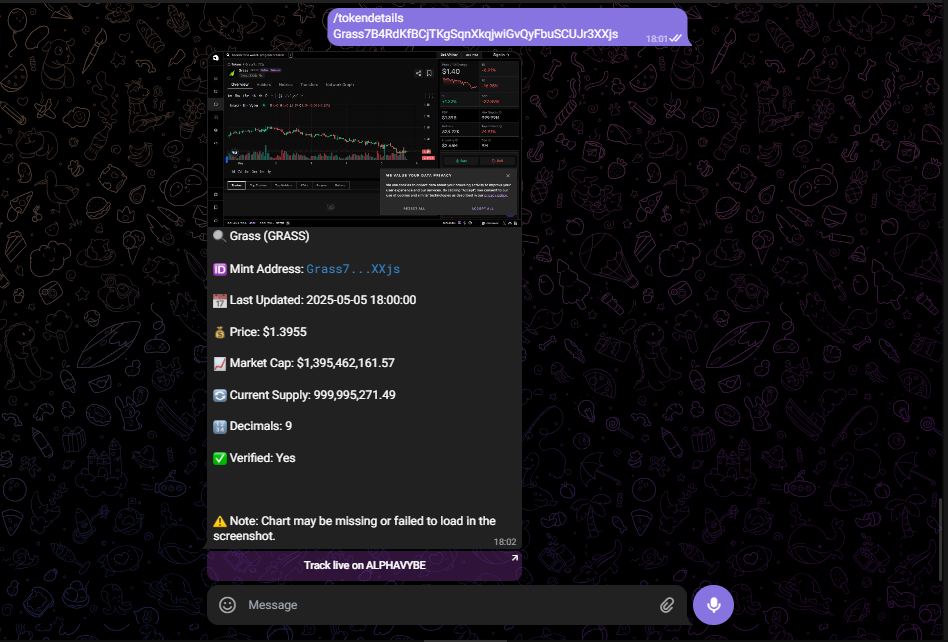
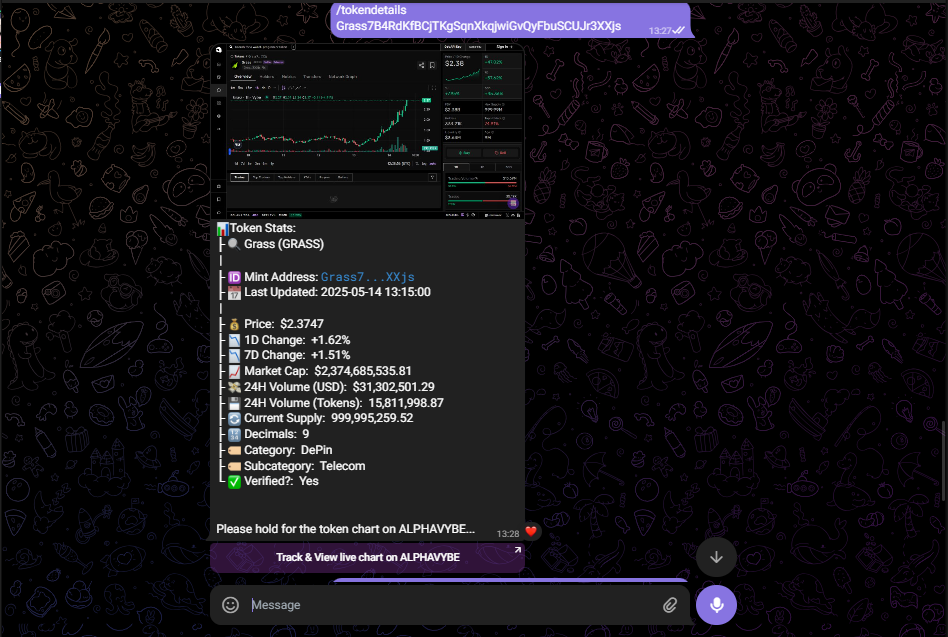
fixed chart image generation, and readme

Changed region(s): [[0.0, 0.0, 1.0, 1.0], [0.8565, 0.5965, 0.9177, 0.686], [0.9789, 0.0, 1.0, 0.0298]]

diff --git a/slashcommands/slashmain.py b/slashcommands/slashmain.py
@@ -264,34 +264,62 @@ COOKIE_SELECTORS = [
     'button[title="ACCEPT ALL"]',
     'button:has-text("Accept All")',
     'button:has-text("Accept Cookies")',
-    'text="Accept"'
+    'text="Accept"',
+    'button#accept-cookies',  # Additional common selectors
+    'button.cookie-accept'
 ]
 
 async def _dismiss_cookies(page):
-    await page.wait_for_timeout(1500)
+    await page.wait_for_timeout(3000)  # Increased initial wait
+    found = False
     for sel in COOKIE_SELECTORS:
         try:
             btn = page.locator(sel)
-            if await btn.is_visible(timeout=3000):
+            if await btn.is_visible(timeout=5000):  # Longer timeout per selector
                 await btn.click()
-                await page.wait_for_timeout(700)
-                return True
-        except PlaywrightTimeoutError:
+                await page.wait_for_timeout(2000)  # Wait for pop-up to close
+                found = True
+                break
+        except Exception as e:  # Broad exception to catch any errors
+            print(f"Cookie dismissal attempt failed for {sel}: {e}")
             continue
-    return False
+    # If not found, try to remove common cookie containers via JS
+    if not found:
+        await page.evaluate('''() => {
+            const selectors = [
+                '.cookie-banner', '#cookie-consent', '.cookieconsent',
+                '.cookies-modal', '#cookieModal', '.cc-banner'
+            ];
+            selectors.forEach(selector => {
+                document.querySelectorAll(selector).forEach(el => el.remove());
+            });
+        }''')
+        await page.wait_for_timeout(1000)  # Allow time for DOM update
+    return found
 
 async def _take_screenshot(page, path):
-    await page.wait_for_selector('div.chart-gui-wrapper', timeout=20000)
-    await page.wait_for_selector('div.chart-gui-wrapper canvas', state="visible", timeout=20000)
-    await page.evaluate("document.querySelector('div.chart-gui-wrapper canvas').scrollIntoView()")
     try:
+        # Attempt to wait for chart elements but proceed if they timeout
+        await page.wait_for_selector('div.chart-gui-wrapper', timeout=20000)
+        await page.wait_for_selector('div.chart-gui-wrapper canvas', state="visible", timeout=20000)
+        # Scroll into view if possible
+        await page.evaluate('''() => {
+            const canvas = document.querySelector('div.chart-gui-wrapper canvas');
+            if (canvas) canvas.scrollIntoView({ behavior: 'instant', block: 'center' });
+        }''')
+    except Exception as e:
+        print(f"Error waiting for chart elements: {e}")
+    try:
+        # Wait for loading spinner to disappear
         await page.wait_for_selector('div.chart-gui-wrapper .loading-spinner', state="detached", timeout=15000)
-    except PlaywrightTimeoutError:
-        pass
+    except Exception as e:
+        print(f"Loading spinner still present: {e}")
+    # Final wait and screenshot
     await page.wait_for_timeout(3000)
     await page.screenshot(path=path, full_page=True)
 
 async def token_details(update: Update, context: ContextTypes.DEFAULT_TYPE):
+    loader_msg = await update.message.reply_text("⏳ Incoming 'token deets'...")
     if not context.args:
         await update.message.reply_text(
             "⚠ Please provide a token mint address\n"
@@ -306,17 +334,17 @@ async def token_details(update: Update, context: ContextTypes.DEFAULT_TYPE):
     # Send token info
     token_info = await slashutils.get_token_details(token_mint)
     info_text = (
-        f"📊Token Stats:\n{token_info}\n\n"
-        "Please hold for the token chart on ALPHAVYBE..."
+        f"📊Token Stats:\n{token_info}"
     )
     info_keyboard = InlineKeyboardMarkup(
         [[InlineKeyboardButton("Track live on ALPHAVYBE", url=url)]]
     )
-    await update.message.reply_text(
+    token_deets = await update.message.reply_text(
         info_text,
         reply_markup=info_keyboard,
         parse_mode="Markdown"
     )
+    await loader_msg.delete()
 
     loading_msg = await update.message.reply_text("⏳ Loading chart image...")
 
@@ -326,31 +354,37 @@ async def token_details(update: Update, context: ContextTypes.DEFAULT_TYPE):
         browser = await p.chromium.launch(headless=True, args=['--no-sandbox'])
         page = await browser.new_page()
         try:
-            await page.goto(url, wait_until="networkidle", timeout=45000)
-            await page.wait_for_timeout(2000)
+            await page.goto(url, wait_until="networkidle", timeout=60000)  # Increased timeout
+        except Exception as e:
+            print(f"Navigation error: {e}")
+        try:
             await _dismiss_cookies(page)
+        except Exception as e:
+            print(f"Cookie dismissal error: {e}")
+        try:
             await _take_screenshot(page, screenshot_path)
             chart_found = True
         except Exception as e:
-            print(f"[token_details] screenshot error: {e}")
+            print(f"[token_details] Screenshot error: {e}")
         finally:
             await browser.close()
-
+            
     await loading_msg.delete()
 
     # Send chart or fallback with inline button
     if chart_found and os.path.exists(screenshot_path):
-        chart_caption = f"Chart for `{token_mint}`"
+        # chart_caption = f"Chart for `{token_mint}`"
         chart_keyboard = InlineKeyboardMarkup(
-            [[InlineKeyboardButton("View live chart on ALPHAVYBE", url=url)]]
+            [[InlineKeyboardButton("Track & View live chart on ALPHAVYBE", url=url)]]
         )
         with open(screenshot_path, "rb") as img:
             await update.message.reply_photo(
                 photo=img,
-                caption=chart_caption,
+                caption=info_text,
                 reply_markup=chart_keyboard,
                 parse_mode="Markdown"
             )
+        await token_deets.delete()
     else:
         fallback_keyboard = InlineKeyboardMarkup(
             [[InlineKeyboardButton("View live chart on ALPHAVYBE", url=url)]]
